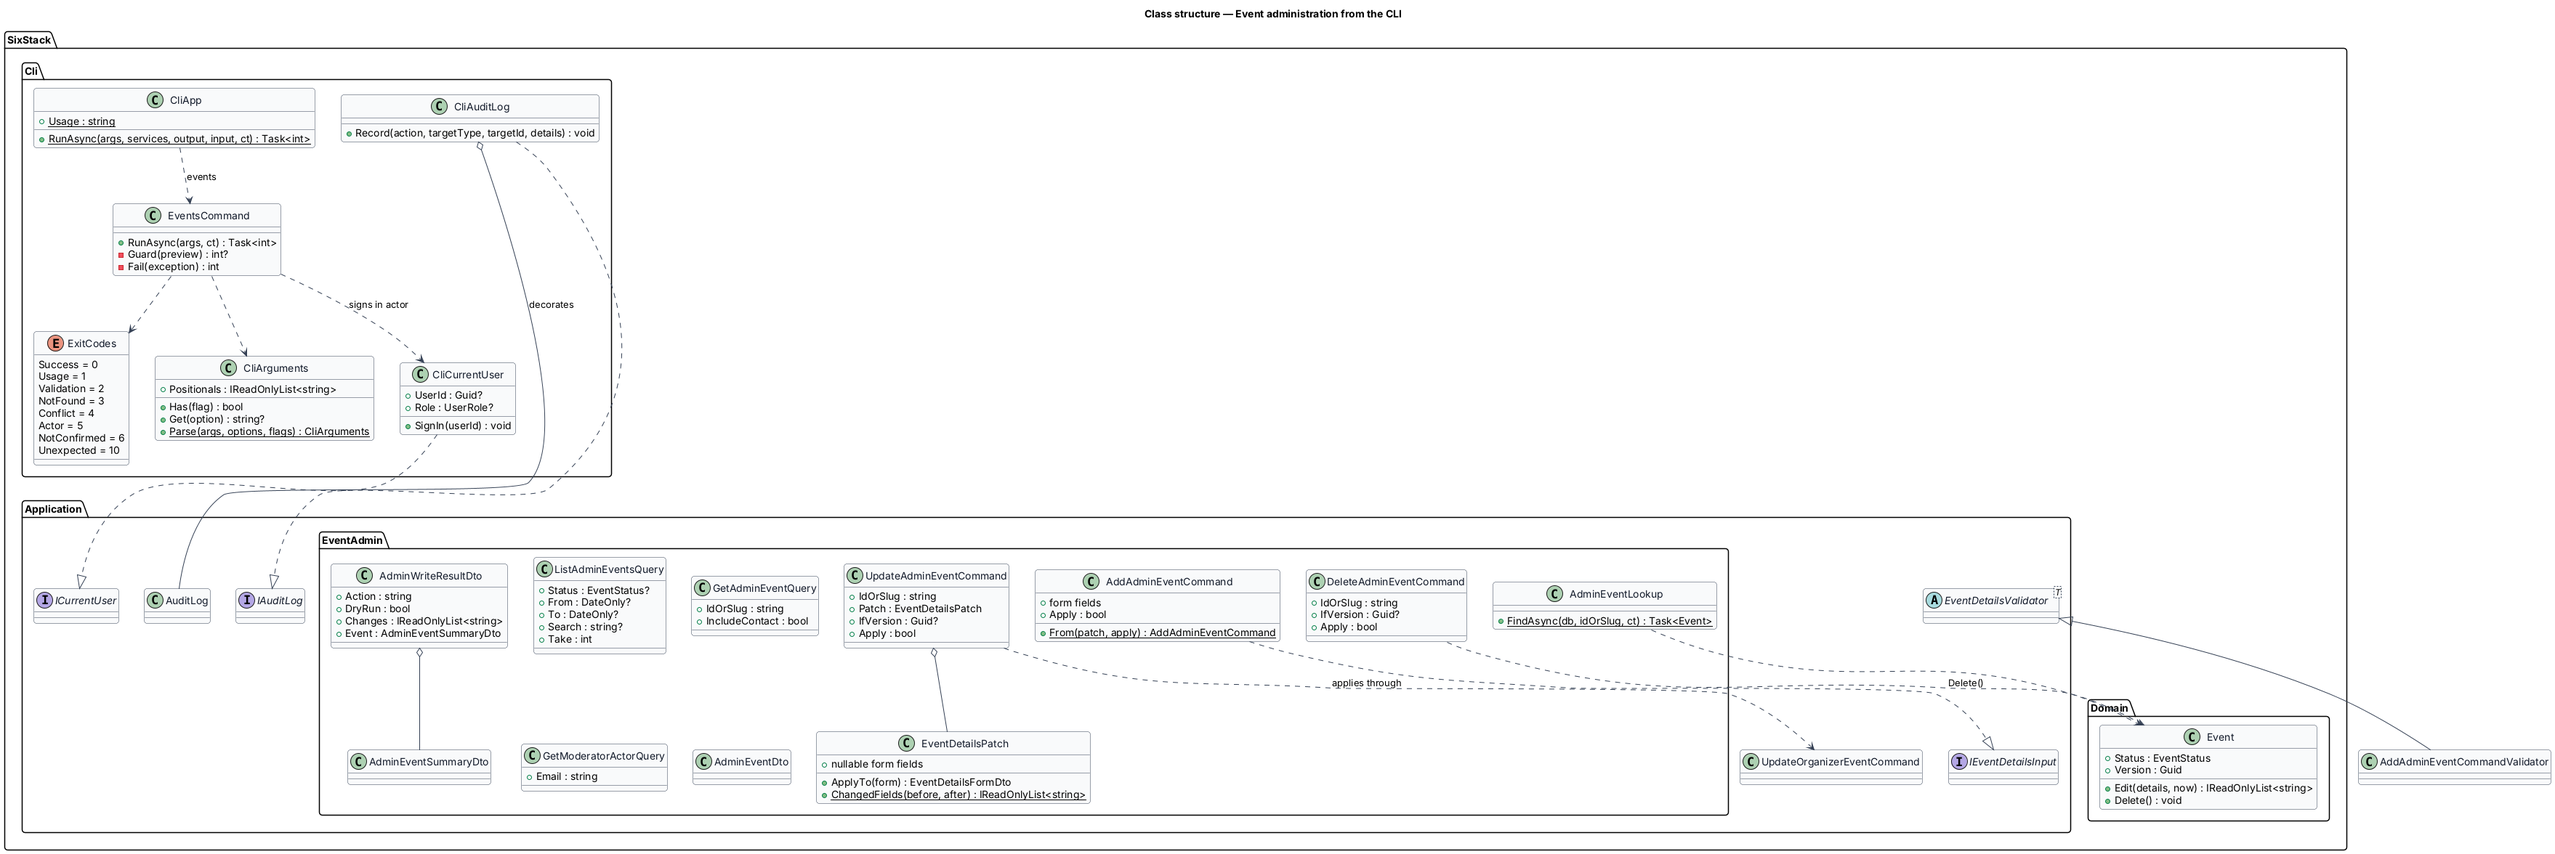
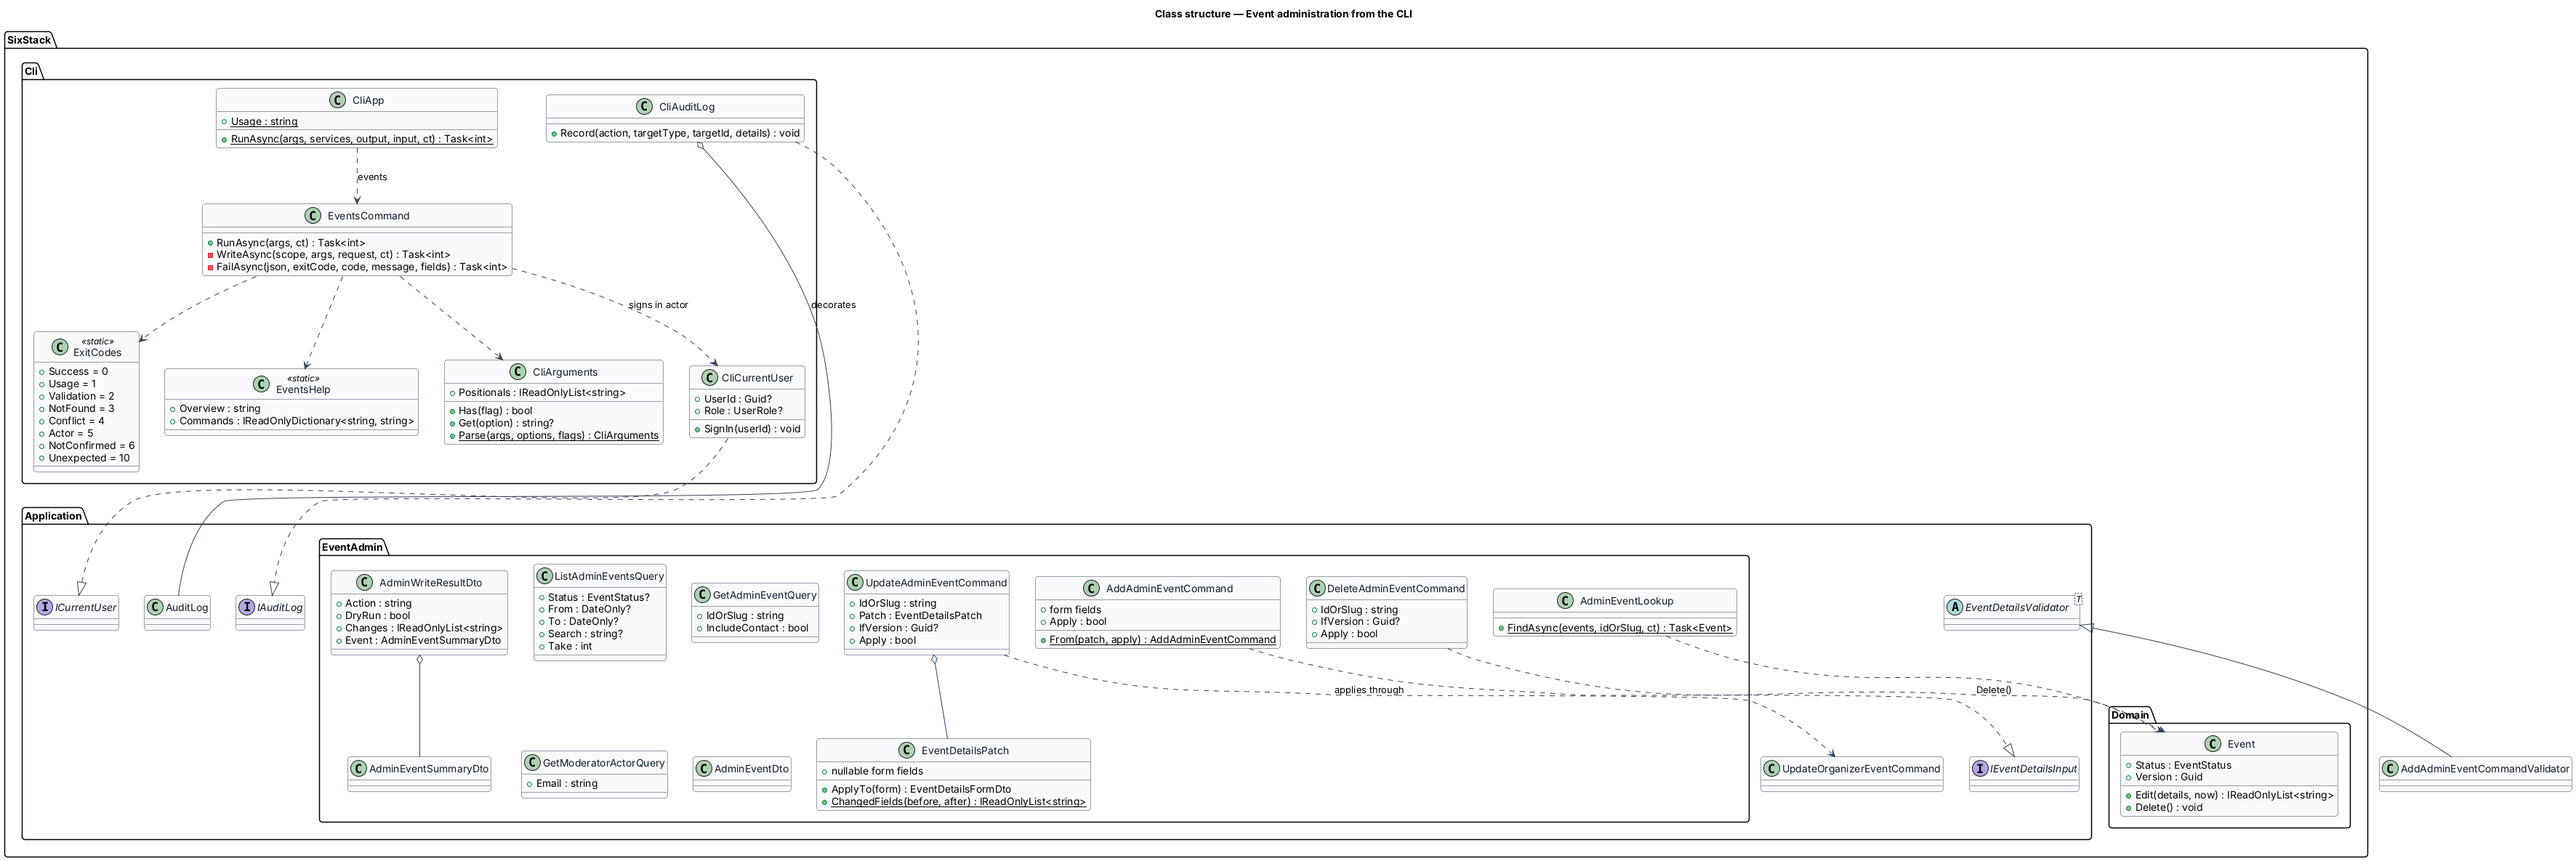
docs: document CLI event administration and mark it complete
README gains the events usage, infra/README a Managing production events
procedure (firewall rule, connection string, dry run, close the rule).
The requirements, design and diagrams match what was built (version in
summaries, logs on standard error, EventsHelp, EventSlugs.NewEvent), and
the estimate moves to 100%.

Claude-Session: https://claude.ai/code/session_01LjZiMtyGA4vp4deiBKpXLe

diff --git a/docs/detailed-designs/platform/event-admin-cli/README.md b/docs/detailed-designs/platform/event-admin-cli/README.md
@@ -104,7 +104,7 @@ camelCase names (`System.Text.Json`, `JsonSerializerDefaults.Web`):
 
 ```json
 { "count": 1, "events": [ { "id": "…", "slug": "…", "title": "…", "status": "published", "cancelled": false,
-  "format": "inPerson", "organizerName": "…", "startsAtUtc": "2026-11-03T23:00:00+00:00", "endsAtUtc": "…" } ] }
+  "format": "inPerson", "organizerName": "…", "startsAtUtc": "2026-11-03T23:00:00+00:00", "endsAtUtc": "…", "version": "…" } ] }
 { "event": { "id": "…", "slug": "…", "status": "published", "cancelled": false, "cancellationReason": null,
   "startsAtUtc": "…", "endsAtUtc": "…", "version": "…", "title": "…", "organizerName": "…", "description": "…",
   "topics": ["azure"], "date": "2026-11-03", "timeZoneId": "America/Toronto", "startTime": "18:00",
@@ -115,7 +115,9 @@ camelCase names (`System.Text.Json`, `JsonSerializerDefaults.Web`):
 ```
 
 `submitterEmail` appears in `event` only with `--show-contact`. A `--json` run
-never prompts.
+never prompts. `changes` lists the form fields a write sets or changes; a delete
+reports `["status"]`. Every summary carries `version`, which `--if-version`
+accepts.
 
 ### Application layer
 
@@ -142,7 +144,8 @@ existing rules rather than restating them.
   `UpdateOrganizerEventCommandValidator` (`L2-041`, `L2-042`, `L2-081`). The
   handler builds the event from `IEventDetailsInput.ToDetails()`, gives it a
   slug through `EventSlugs.UniqueAsync` (extracted from
-  `SubmitEventCommandHandler`), publishes it with `ApprovedAtUtc` and
+  `SubmitEventCommandHandler`, together with `EventSlugs.NewEvent`, which maps
+  validated details to a new `Event` for both), publishes it with `ApprovedAtUtc` and
   `PublishedAtUtc` set to now, and records `EventAdded`. A moderator adding an
   event is its approval, so it skips the review queue; it has no
   `SubmitterEmail`, so no confirmation or verification email is sent. With
@@ -179,6 +182,9 @@ and dashboards with no query change.
 - **`EventsCommand`** — parses the command, resolves the actor for writes,
   sends the MediatR request, prints the result and maps exceptions to exit
   codes. It holds no business rule.
+- **`CliArguments`** / **`CliUsageException`** — the parser and its usage error.
+- **`ExitCodes`** — the exit code constants.
+- **`EventsHelp`** — the `events --help` and `events <command> --help` text.
 - **`CliCurrentUser`** — scoped `ICurrentUser`; after the actor is resolved it
   reports that user id and the `Moderator` role, so `EventAccess` and
   `AuditLog` see a moderator.
@@ -209,7 +215,8 @@ refused write and a failed write save nothing, so they leave no entry.
 - **Soft delete** — `delete` never removes a row. Undoing a delete is deferred.
 - **No secrets** — the CLI never prints configuration, the connection string or
   a driver exception's message. An unexpected exception prints only its type
-  name and exits 10. Logging stays at warning level (`appsettings.json`).
+  name and exits 10. Logging stays at warning level (`appsettings.json`) and
+  goes to standard error, so standard output holds only the result.
 - **No contact details** — `list` never includes `SubmitterEmail`; `get` adds
   it only with `--show-contact` (`L2-099`).
 
@@ -254,7 +261,7 @@ The procedure lives in `infra/README.md` under "Managing production events".
 | `L2-110` | `L1-025` | Every `events` command shall print a human-readable table or summary by default and, with `--json`, exactly one JSON document with stable camelCase names; exit codes 0 success, 1 usage, 2 validation, 3 not found, 4 conflict, 5 actor, 6 not confirmed, 10 unexpected. |
 | `L2-111` | `L1-025` | `events add`, `events update` and `events delete` shall require a moderator actor from `--actor` or `SIXSTACK_ACTOR`, show what will change, validate without writing under `--dry-run`, apply under `--yes`, ask "Apply? [y/N]" when interactive, and otherwise write nothing. |
 | `L2-112` | `L1-025` | Every applied CLI write shall record one audit entry (`L2-086`) in the same unit of work with the actor's user id, the time, the action, the event as target, and details that end with "via CLI"; a dry run, a refused write or a failed write shall record none. |
-| `L2-113` | `L1-025` | The CLI shall never print the connection string, a password or a database driver's exception message, and shall not print a submitter's email address unless `events get` is given `--show-contact` (`L2-099`, `L1-023`). |
+| `L2-113` | `L1-025` | The CLI shall never print the connection string, a password or an exception's message from the database driver, and shall not print a submitter's email address unless `events get` is given `--show-contact` (`L2-099`, `L1-023`). |
 | `L2-114` | `L1-025` | `sixstack migrate`, `sixstack seed` and `sixstack reset` shall keep their behaviour, output and exit codes, and the usage shall list the `events` commands. |
 
 ## Diagrams

diff --git a/README.md b/README.md
@@ -61,7 +61,8 @@ flowchart LR
   app --> domain[SixStack.Domain]
   api --> infra[SixStack.Infrastructure<br/>EF Core, email, outbox]
   infra --> db[(SQL Server)]
-  cli[SixStack.Cli] --> infra
+  cli[SixStack.Cli] --> app
+  cli --> infra
 ```
 
 | Component                      | Technology                | Responsibility                                                              |
@@ -73,7 +74,7 @@ flowchart LR
 | `src/SixStack.Application`     | MediatR, FluentValidation | Commands, queries, validators and DTOs.                                     |
 | `src/SixStack.Domain`          | .NET                      | Entities and enums, with no dependencies.                                   |
 | `src/SixStack.Infrastructure`  | EF Core, SQL Server       | Persistence, migrations, email, geocoding, outbox, seeder.                  |
-| `src/SixStack.Cli`             | .NET console              | Migrate, seed and reset the database.                                       |
+| `src/SixStack.Cli`             | .NET console              | Migrate, seed and reset the database; list, read, add, update and delete events. |
 
 The API never applies migrations on startup. Run the CLI `migrate` command instead. See the
 [detailed designs](docs/detailed-designs/README.md) for the full architecture.
@@ -117,6 +118,32 @@ export Database__Provider=Sqlite
 export ConnectionStrings__Default="Data Source=sixstack.db"
 dotnet run --project src/SixStack.Cli -- reset
 ```
+
+### Manage events from the command line
+
+`sixstack events` lists, reads, adds, updates and soft-deletes events in whatever database
+`ConnectionStrings__Default` points at ([design](docs/detailed-designs/platform/event-admin-cli/README.md),
+[ADR 0011](docs/adr/0011-cli-event-administration.md)). Reads need nothing else:
+
+```bash
+dotnet run --project src/SixStack.Cli -- events list --status published --from 2026-11-03 --to 2026-11-09
+dotnet run --project src/SixStack.Cli -- events get whats-new-in-dotnet-11-previews --json
+```
+
+Writes run the web app's validation and edit rules, record an audit entry, and need a moderator account as the
+actor plus `--yes` (or `--dry-run` to preview without writing):
+
+```bash
+export SIXSTACK_ACTOR=jordan@6ixstack.dev   # a moderator in the seed data
+dotnet run --project src/SixStack.Cli -- events add --file event.json --dry-run
+dotnet run --project src/SixStack.Cli -- events update whats-new-in-dotnet-11-previews --title "What's new in .NET 11" --yes
+dotnet run --project src/SixStack.Cli -- events delete whats-new-in-dotnet-11-previews --yes
+```
+
+Every command takes `--json` and prints one JSON document for scripts and agents. Exit codes: 0 success,
+1 usage error, 2 validation error, 3 not found, 4 conflict, 5 actor missing or not a moderator, 6 not confirmed,
+10 unexpected error. `sixstack events --help` and `sixstack events <command> --help` list the options. To run it
+against production, see [Managing production events](infra/README.md#managing-production-events).
 
 ### Run the app
 

diff --git a/docs/specs/L2.md b/docs/specs/L2.md
@@ -1382,7 +1382,7 @@ The site shall show the official 6ixstack logo mark from the Magic Patterns prot
 Every `events` command shall print a human-readable table or summary by default and, with `--json`, exactly one JSON document on standard output, with camelCase property names that stay stable across releases. The exit codes shall be: 0 success (including a dry run), 1 usage error, 2 validation error, 3 not found, 4 conflict, 5 actor missing or not a moderator, 6 write not confirmed, 10 unexpected error.
 
 **Acceptance Criteria:**
-1. Given `events list --json`, when it runs, then the output parses as `{ "count": n, "events": [ { "id", "slug", "title", "status", "cancelled", "format", "organizerName", "startsAtUtc", "endsAtUtc" } ] }`.
+1. Given `events list --json`, when it runs, then the output parses as `{ "count": n, "events": [ { "id", "slug", "title", "status", "cancelled", "format", "organizerName", "startsAtUtc", "endsAtUtc", "version" } ] }`.
 2. Given `events get <slug> --json`, when it runs, then the output parses as `{ "event": { ... } }` holding the fields of `L2-106`.
 3. Given a write with `--json`, when it succeeds, then the output parses as `{ "result": { "action", "dryRun", "changes", "event" } }`.
 4. Given any failure with `--json`, when it ends, then the output parses as `{ "error": { "code", "message", "fields" } }`, where `code` is one of `usage`, `validation`, `notFound`, `conflict`, `actor`, `notConfirmed` and `unexpected`, and `fields` maps each invalid field to its messages.
@@ -1417,7 +1417,7 @@ Every applied CLI write shall record one audit entry (`L2-086`) in the same unit
 ## L2-113: No secrets or contact details in CLI output
 **Traces to:** L1-025
 
-The CLI shall never print the connection string, a password or an exception's message from the database driver, and shall not print a submitter's email address unless `events get` is given `--show-contact` (`L2-099`, `L1-023`). An unexpected failure shall print only "Unexpected error ({type}). Details are not printed, to keep secrets out of the output." and exit 10. Log output follows the structured logging rules of `L2-101` at warning level and above.
+The CLI shall never print the connection string, a password or an exception's message from the database driver, and shall not print a submitter's email address unless `events get` is given `--show-contact` (`L2-099`, `L1-023`). An unexpected failure shall print only "Unexpected error ({type}). Details are not printed, to keep secrets out of the output." and exit 10. Log output goes to standard error at warning level and above, so standard output holds only the result.
 
 **Acceptance Criteria:**
 1. Given an event with a submitter email, when `events list`, `events get` and `events get --json` run, then the email appears nowhere in the output; with `events get --show-contact`, it appears as `submitterEmail`.

diff --git a/infra/README.md b/infra/README.md
@@ -30,3 +30,49 @@ GitHub configuration:
 - Variables: `AZURE_CLIENT_ID` (the deployer identity's client id), `AZURE_TENANT_ID`, `AZURE_SUBSCRIPTION_ID`,
   `AZURE_RESOURCE_GROUP`, `AZURE_WEBAPP_NAME`, `AZURE_SQL_SERVER`.
 - Secret: `SQL_CONNECTION_STRING`.
+
+## Managing production events
+
+The CLI's `events` commands (ADR 0011) work against production the same way the deploy workflow runs `migrate`:
+open the SQL firewall for your IP, point `ConnectionStrings__Default` at the database, run the commands, and close
+the firewall again. You need a moderator account in the production database to write.
+
+1. Open the firewall for your IP:
+
+   ```sh
+   ip=$(curl -fsS https://api.ipify.org)
+   az sql server firewall-rule create -g rg-sixstack-prod -s sixstack-sql -n "cli-$USER" \
+     --start-ip-address "$ip" --end-ip-address "$ip" -o none
+   ```
+
+2. Set the connection string without writing it to your shell history. With SQL authentication, use the
+   administrator login (the value of the `SQL_CONNECTION_STRING` secret):
+
+   ```sh
+   read -rs ConnectionStrings__Default && export ConnectionStrings__Default
+   ```
+
+   Entra ID authentication (`Server=tcp:sixstack-sql.database.windows.net,1433;Database=sixstack;
+   Authentication=Active Directory Default`, using your `az login`) needs an Entra administrator on
+   `sixstack-sql`, which `main.bicep` does not configure yet.
+
+3. Read first, preview writes with `--dry-run`, then apply with `--yes`:
+
+   ```sh
+   export SIXSTACK_ACTOR=you@example.org   # your moderator account
+   dotnet run --project src/SixStack.Cli -- events list --search "azure"
+   dotnet run --project src/SixStack.Cli -- events update <slug> --title "Corrected title" --dry-run
+   dotnet run --project src/SixStack.Cli -- events update <slug> --title "Corrected title" --yes
+   ```
+
+   Deletes are soft: the event's status becomes `deleted`, it leaves the site and feeds, and the row stays.
+   Every write records an audit entry naming your account and "via CLI".
+
+4. Close the firewall:
+
+   ```sh
+   unset ConnectionStrings__Default
+   az sql server firewall-rule delete -g rg-sixstack-prod -s sixstack-sql -n "cli-$USER"
+   ```
+
+Never run `reset` against production: it drops and recreates the database, and it has no guard yet.

diff --git a/AGENTS.md b/AGENTS.md
@@ -12,7 +12,7 @@ src/
   SixStack.Application/       MediatR handlers, validators, DTOs, IAppDbContext
   SixStack.Infrastructure/    AppDbContext, migrations, external clients, auth, seeder
   SixStack.Api/               controllers, Program.cs, DI, middleware, Swagger
-  SixStack.Cli/               migrate, seed, and reset commands
+  SixStack.Cli/               migrate, seed, reset, and events (list, get, add, update, delete) commands
 tests/
   SixStack.<Layer>.Tests/     one test project per src project, same name + .Tests
 frontend/                     Angular workspace (package.json, angular.json, lint/format config)
@@ -48,7 +48,7 @@ Layer dependency direction (strict):
 - `SixStack.Application` — MediatR handlers, validators, DTO contracts, `IAppDbContext`
 - `SixStack.Infrastructure` — `AppDbContext`, EF migrations, SQL Server, external clients, auth services, seeder
 - `SixStack.Api` — controllers, `Program.cs`, DI composition, Swagger, middleware
-- `SixStack.Cli` — database migration, seeding, and reset commands
+- `SixStack.Cli` — database migration, seeding, and reset commands, and event administration (`events`) through Application handlers
 
 Non-obvious rules:
 

diff --git a/docs/estimates/README.md b/docs/estimates/README.md
@@ -1,12 +1,12 @@
 # Estimates
 
 - Overall effort: 164 days
-- Complete: 74%
+- Complete: 78%
 
 | Subsystem | Effort | Complete |
 |---|---|---|
 | [site](site.md) | 19 days | 76% |
-| [platform](platform.md) | 35 days | 22% |
+| [platform](platform.md) | 35 days | 42% |
 | [discovery](discovery.md) | 20 days | 94% |
 | [feeds-and-sharing](feeds-and-sharing.md) | 17 days | 92% |
 | [submissions](submissions.md) | 9 days | 85% |

diff --git a/docs/estimates/platform.md b/docs/estimates/platform.md
@@ -3,7 +3,7 @@
 | Design | Effort | Complete |
 |---|---|---|
 | accessibility | 5 days | 20% |
-| event-admin-cli | 7 days | 0% |
+| event-admin-cli | 7 days | 100% |
 | observability | 5 days | 80% |
 | performance-budgets | 4 days | 0% |
 | privacy-and-retention | 4 days | 5% |
